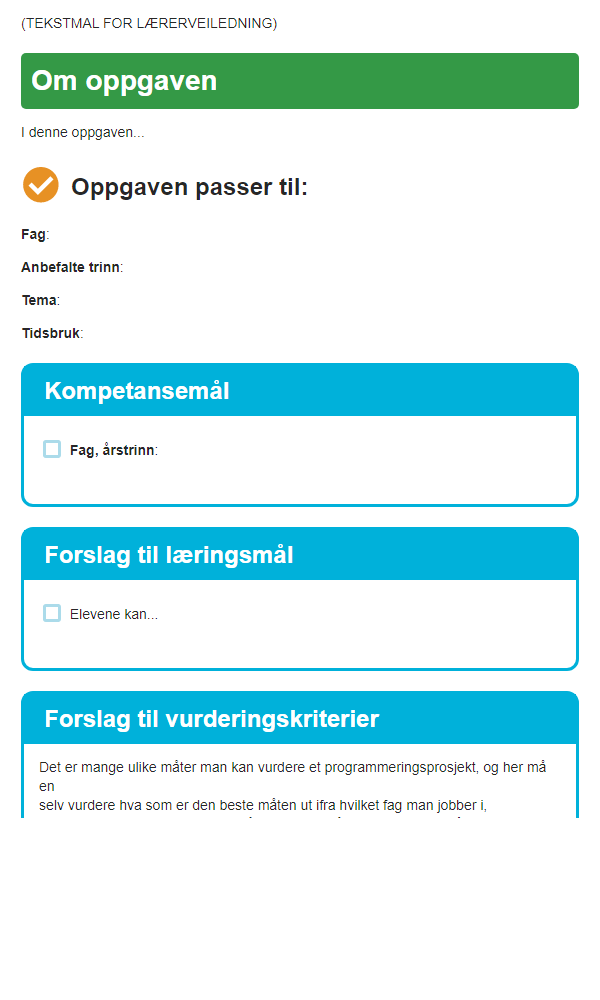
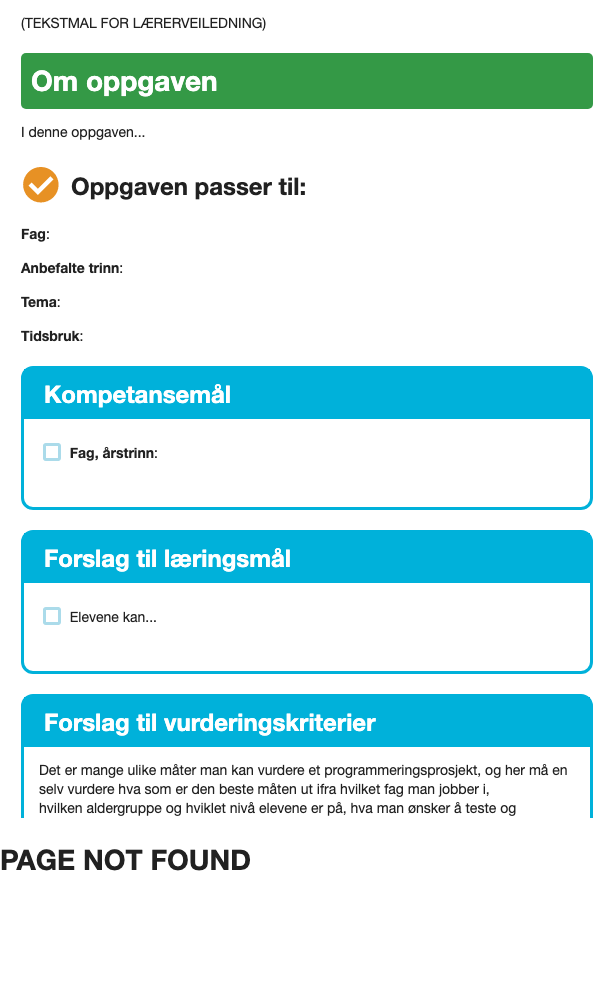
merge with nestJS

diff --git a/apps/frontend/src/app/components/App.tsx b/apps/frontend/src/app/components/App.tsx
@@ -1,7 +1,7 @@
 import Editor from "./editor/Editor";
 import Landingpage from "./landingpage/Landingpage";
 import Overview from "./frontpage/Overview";
-import { BrowserRouter, Route } from "react-router-dom";
+import { BrowserRouter, Route, Switch } from "react-router-dom";
 import { LessonContextProvider } from "../contexts/LessonContext";
 import { UserContextProvider } from "../contexts/UserContext";
 import { FileContextProvider } from "../contexts/FileContext";
@@ -9,8 +9,8 @@ import SimplePreview from "./simple-preview/simple-preview";
 
 const App = () => {
   return (
-    <>
-      <BrowserRouter>
+    <BrowserRouter>
+      <Switch>
         <UserContextProvider>
           <Route exact path="/" component={Overview} />
           <Route exact path="/landingpage" component={Landingpage} />
@@ -36,8 +36,8 @@ const App = () => {
         <Route path="*">
           <h1>PAGE NOT FOUND</h1>
         </Route>
-      </BrowserRouter>
-    </>
+      </Switch>
+    </BrowserRouter>
   );
 };
 

diff --git a/apps/frontend/src/app/components/landingpage/datapanel/CheckboxField.tsx b/apps/frontend/src/app/components/landingpage/datapanel/CheckboxField.tsx
@@ -1,0 +1,22 @@
+import { Grid, Header, Segment } from "semantic-ui-react";
+import { FC, ReactChild } from "react";
+
+interface CheckboxFieldProps {
+  labelTitle: string;
+  content: ReactChild;
+}
+
+const CheckboxField: FC<CheckboxFieldProps> = ({ labelTitle, content }) => {
+  return (
+    <>
+      <Header as="h3">{labelTitle}</Header>
+      <Segment>
+        <Grid stackable columns={2}>
+          <Grid.Row>{content}</Grid.Row>
+        </Grid>
+      </Segment>
+    </>
+  );
+};
+
+export default CheckboxField;
